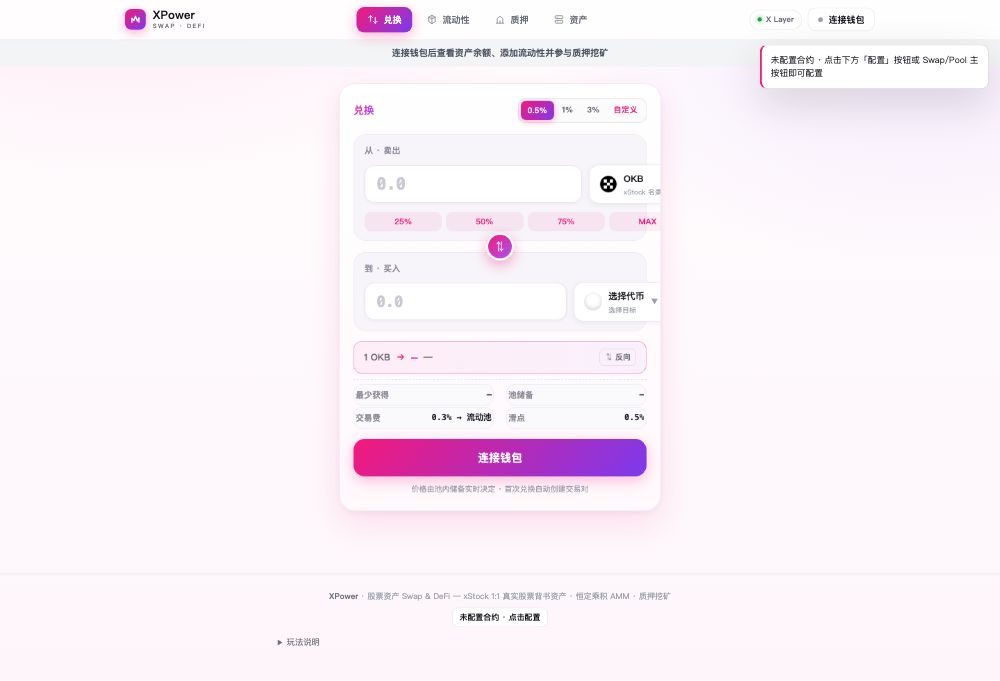
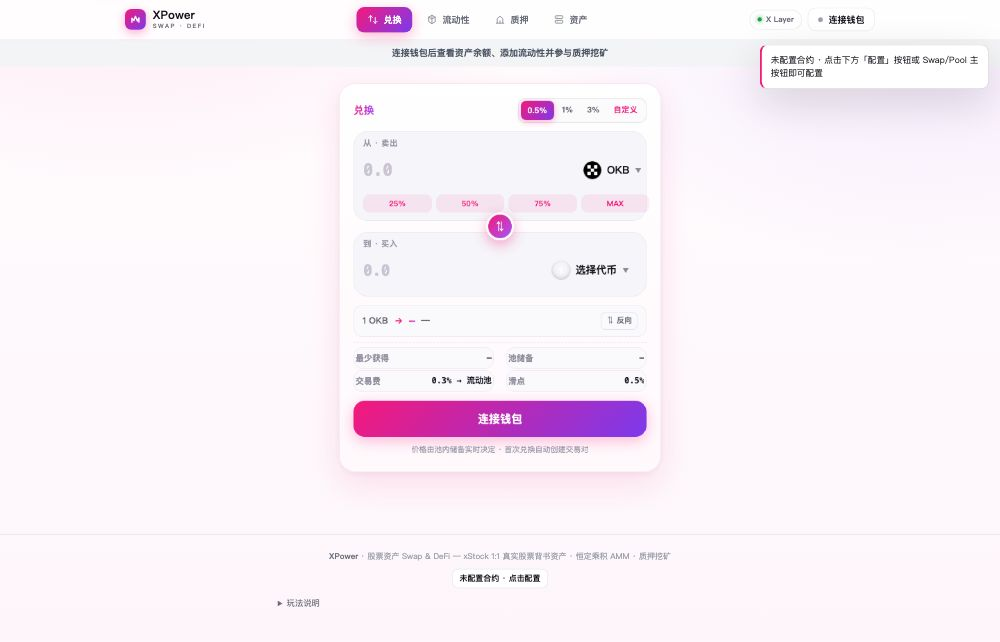
兑换卡v4.5：去三明治结构改单层输入区/单行币种按钮/收紧间距/简化价格条(Uniswap式)

diff --git a/XPower Swap DApp.html b/XPower Swap DApp.html
@@ -282,34 +282,37 @@ input[type=text]:focus,input[type=number]:focus,select:focus,textarea:focus{outl
 body{background:radial-gradient(1100px 560px at 12% -8%,rgba(245,25,123,.09),transparent 62%),radial-gradient(900px 520px at 92% 6%,rgba(168,85,247,.10),transparent 62%),linear-gradient(180deg,#fffdfe 0%,#fdf5fa 100%)!important}
 .swap-center{max-width:464px;margin:0 auto;width:100%}
 .swap-card{overflow:hidden;border:1px solid #f2e7ef;border-radius:24px;background:linear-gradient(180deg,#ffffff 0%,#fff7fc 130%);box-shadow:0 16px 46px rgba(245,25,123,.12),0 3px 12px rgba(20,20,43,.05);padding:20px 20px 22px}
-.swap-head{display:flex;justify-content:space-between;align-items:center;margin-bottom:16px;gap:8px}
+.swap-head{display:flex;justify-content:space-between;align-items:center;margin-bottom:12px;gap:8px}
 .swap-head b{font-size:22px;font-weight:900;letter-spacing:-.3px;background:linear-gradient(90deg,#f5197b,#a855f7);-webkit-background-clip:text;background-clip:text;color:transparent}
-.amt-in{background:#f7f5f9;border:1px solid #efe9f1;border-radius:18px;padding:13px 15px;display:grid;gap:10px;transition:border-color .18s,box-shadow .18s}
-.amt-in:focus-within{border-color:#f6a9d2;box-shadow:0 0 0 4px rgba(245,25,123,.10)}
-.amt-head{display:flex;justify-content:space-between;align-items:center;font-size:12px;color:#8f8b9b;font-weight:700;letter-spacing:.3px}
-.amt-head .bal{color:#a9a5b4;font-weight:600;font-size:11px}
-.amt-body{display:flex;align-items:center;gap:10px}
-.amt-body input{flex:1 1 auto;min-width:0;width:auto;max-width:none;background:#fff;border:1px solid #ece6ee!important;border-radius:14px;font-size:24px!important;font-weight:900;font-family:var(--mono);outline:none;color:#1a1726;letter-spacing:-.5px;padding:11px 16px;height:54px;box-sizing:border-box;transition:border-color .15s,box-shadow .15s;box-shadow:0 1px 4px rgba(20,20,43,.05)}
-.amt-body input:focus{border-color:#f6a9d2!important;box-shadow:0 0 0 3px rgba(245,25,123,.12)}
-.amt-body input::placeholder{color:#cbc7d4;font-weight:700}
-.amt-body .tokbtn{flex-shrink:0;width:auto;max-width:none;flex-basis:auto;background:#fff;border:1px solid #ece6ee;border-radius:14px;padding:8px 14px;box-shadow:0 2px 8px rgba(20,20,43,.06);min-width:122px}
-.amt-body .tokbtn:hover{border-color:#f6a9d2}
-.amt-body .tokbtn .lg{width:26px;height:26px;font-size:11px}
-.amt-body .tokbtn .nm2{font-size:13px;font-weight:800}
-.amt-body .tokbtn .sub2{font-size:10px}
-.pct-row{display:flex;gap:6px;margin-top:2px}
-.pct-row button{flex:1;padding:6px 0;border-radius:10px;border:none;background:rgba(245,25,123,.07);color:var(--acc);font-size:11.5px;font-weight:800;cursor:pointer;transition:.15s}
+.amt-in{background:#f6f5f9;border:1px solid #eee9f1;border-radius:20px;padding:7px 13px 11px;display:grid;gap:3px;transition:border-color .18s,box-shadow .18s}
+.amt-in:focus-within{border-color:#f2b4d8;box-shadow:0 0 0 4px rgba(245,25,123,.08)}
+.amt-head{display:flex;justify-content:space-between;align-items:center;font-size:11.5px;color:#9a94a6;font-weight:700;letter-spacing:.3px}
+.amt-head .bal{color:#b0aaba;font-weight:600;font-size:11px}
+.amt-body{display:flex;align-items:center;gap:8px;height:52px}
+.amt-body input{flex:1 1 auto;min-width:0;width:auto;background:transparent;border:none!important;border-radius:0;font-size:24px!important;font-weight:900;font-family:var(--mono);outline:none;color:#16131f;letter-spacing:-.5px;padding:0;height:52px;box-sizing:border-box;box-shadow:none!important}
+.amt-body input:focus{border:none!important;box-shadow:none!important}
+.amt-body input::placeholder{color:#c9c3d2;font-weight:700}
+.amt-body input[type=number]::-webkit-inner-spin-button,.amt-body input[type=number]::-webkit-outer-spin-button{-webkit-appearance:none;margin:0}
+.amt-body input[type=number]{-moz-appearance:textfield}
+.amt-body .tokbtn{flex-shrink:0;width:auto;max-width:none;flex-basis:auto;background:transparent;border:1px solid transparent;border-radius:14px;padding:4px 10px;min-width:0;display:flex;align-items:center;gap:7px;height:46px;transition:.16s}
+.amt-body .tokbtn:hover{background:#fff;border-color:#eee9f1;box-shadow:0 2px 10px rgba(20,20,43,.07)}
+.amt-body .tokbtn .lg{width:28px;height:28px;font-size:12px}
+.amt-body .tokbtn .nm2{font-size:15px;font-weight:900;letter-spacing:-.2px}
+.amt-body .tokbtn .sub2{display:none}
+.amt-body .tokbtn .caret{color:#8f8b9b;font-size:10px;margin-left:1px}
+.pct-row{display:flex;gap:6px;margin-top:6px}
+.pct-row button{flex:1;padding:5px 0;border-radius:9px;border:none;background:rgba(245,25,123,.08);color:#f5197b;font-size:11px;font-weight:800;cursor:pointer;transition:.15s}
 .pct-row button:hover{background:linear-gradient(90deg,#f5197b,#a855f7);color:#fff;box-shadow:0 3px 10px rgba(245,25,123,.3)}
 .arrow-mid{display:flex;justify-content:center;margin:-12px 0;position:relative;z-index:2}
 .arrow-mid button{width:40px;height:40px;border-radius:50%;border:3px solid #fff;background:linear-gradient(135deg,#f5197b,#a855f7);color:#fff;font-size:16px;cursor:pointer;box-shadow:0 6px 18px rgba(245,25,123,.38);display:flex;align-items:center;justify-content:center;transition:transform .3s cubic-bezier(.2,.8,.3,1)}
 .arrow-mid button:hover{transform:scale(1.08)}
-.pricebar{display:flex;align-items:center;justify-content:center;gap:8px;margin:14px 0 4px;padding:10px 14px;background:linear-gradient(90deg,rgba(245,25,123,.06),rgba(168,85,247,.06));border-radius:12px;font-size:13px;font-weight:600;color:#6f6a7a}
+.pricebar{display:flex;align-items:center;justify-content:center;gap:8px;margin:12px 0 4px;padding:9px 12px;background:#faf9fc;border:1px solid #f1ebf1;border-radius:12px;font-size:12.5px;font-weight:600;color:#6f6a7a}
 .pricebar b{font-size:16px;font-weight:900;font-family:var(--mono);background:linear-gradient(90deg,#f5197b,#a855f7);-webkit-background-clip:text;background-clip:text;color:transparent}
 .pflip{margin-left:auto;font-size:11.5px;font-weight:800;color:var(--acc);cursor:pointer}
 .info-grid{display:grid;grid-template-columns:1fr 1fr;gap:8px;margin-top:12px}
 .info-row{display:flex;justify-content:space-between;align-items:center;padding:9px 12px;background:#faf9fc;border:1px solid #f2ecf2;border-radius:12px;font-size:12px;color:#8f8b9b;font-weight:600}
 .info-row b{color:#1a1726;font-weight:800}
-.swap-cta{margin-top:14px;padding:16px!important;font-size:16px!important;font-weight:900;border-radius:16px!important;box-shadow:0 10px 26px rgba(245,25,123,.34);transition:.18s}
+.swap-cta{margin-top:13px;padding:15px!important;font-size:16px!important;font-weight:900;border-radius:16px!important;box-shadow:0 8px 22px rgba(245,25,123,.28);transition:.18s}
 .swap-cta:hover{transform:translateY(-1px);box-shadow:0 14px 32px rgba(245,25,123,.46);filter:brightness(1.05)}
 </style>
 </head>
@@ -352,7 +355,7 @@ body{background:radial-gradient(1100px 560px at 12% -8%,rgba(245,25,123,.09),tra
           <div class="amt-head"><span>从 · 卖出</span><span class="bal" id="fromBal"></span></div>
           <div class="amt-body">
             <input id="inAmt" type="number" value="" min="0" placeholder="0.0" oninput="dqSwap()" onkeydown="if(event.key==='Enter')swapCta()">
-            <div class="tokbtn" id="fromBtn" onclick="pickToken('from')"><span class="lg" id="fromLg">?</span><span><span class="nm2" id="fromNm">选择代币</span><span class="sub2" id="fromSub">xStock 名录</span></span><span class="caret">▼</span></div>
+            <div class="tokbtn" id="fromBtn" onclick="pickToken('from')"><span class="lg" id="fromLg">?</span><span><span class="nm2" id="fromNm">选择代币</span><span class="sub2" id="fromSub">点击选择</span></span><span class="caret">▼</span></div>
           </div>
           <div class="pct-row">
             <button type="button" onclick="swapPct(25)">25%</button>
@@ -366,7 +369,7 @@ body{background:radial-gradient(1100px 560px at 12% -8%,rgba(245,25,123,.09),tra
           <div class="amt-head"><span>到 · 买入</span><span class="bal" id="toBal"></span></div>
           <div class="amt-body">
             <input id="outAmt" type="text" readonly placeholder="0.0">
-            <div class="tokbtn" id="toBtn" onclick="pickToken('to')"><span class="lg" id="toLg">?</span><span><span class="nm2" id="toNm">选择代币</span><span class="sub2" id="toSub">选择目标</span></span><span class="caret">▼</span></div>
+            <div class="tokbtn" id="toBtn" onclick="pickToken('to')"><span class="lg" id="toLg">?</span><span><span class="nm2" id="toNm">选择代币</span><span class="sub2" id="toSub">点击选择</span></span><span class="caret">▼</span></div>
           </div>
         </div>
         <div class="pricebar"><span>1 <span id="rFrom">—</span></span><svg width="14" height="14" viewBox="0 0 24 24" fill="none" stroke="currentColor" stroke-width="2.2" stroke-linecap="round" stroke-linejoin="round" style="color:var(--acc)"><path d="M5 12h14M13 6l6 6-6 6"/></svg><b id="rateBig">—</b><span id="rTo" style="color:var(--dim)">—</span><span class="pflip" onclick="flipSwap()">⇅ 反向</span></div>
@@ -1467,8 +1470,11 @@ function flipSwap(){
 }
 function setTokBtn(btnId,lgId,nmId,t){
   const b=$(btnId),l=$(lgId),n=$(nmId);if(!b)return;
-  if(t){l.outerHTML=logoSvg(t.sym,lgId,t.logo);n.textContent=t.sym;}
-  else{n.textContent="选择代币";l.outerHTML=`<span class="lg" id="${lgId}">?</span>`;}
+  const sub=b.querySelector(".sub2");
+  if(t){l.outerHTML=logoSvg(t.sym,lgId,t.logo);n.textContent=t.sym;
+    if(sub)sub.textContent=(t.name||"").slice(0,10)||"代币";}
+  else{n.textContent="选择代币";l.outerHTML=`<span class="lg" id="${lgId}">?</span>`;
+    if(sub)sub.textContent="点击选择";}
 }
 function renderSwapSel(){
   setTokBtn("fromBtn","fromLg","fromNm",sA);setTokBtn("toBtn","toLg","toNm",sB);
